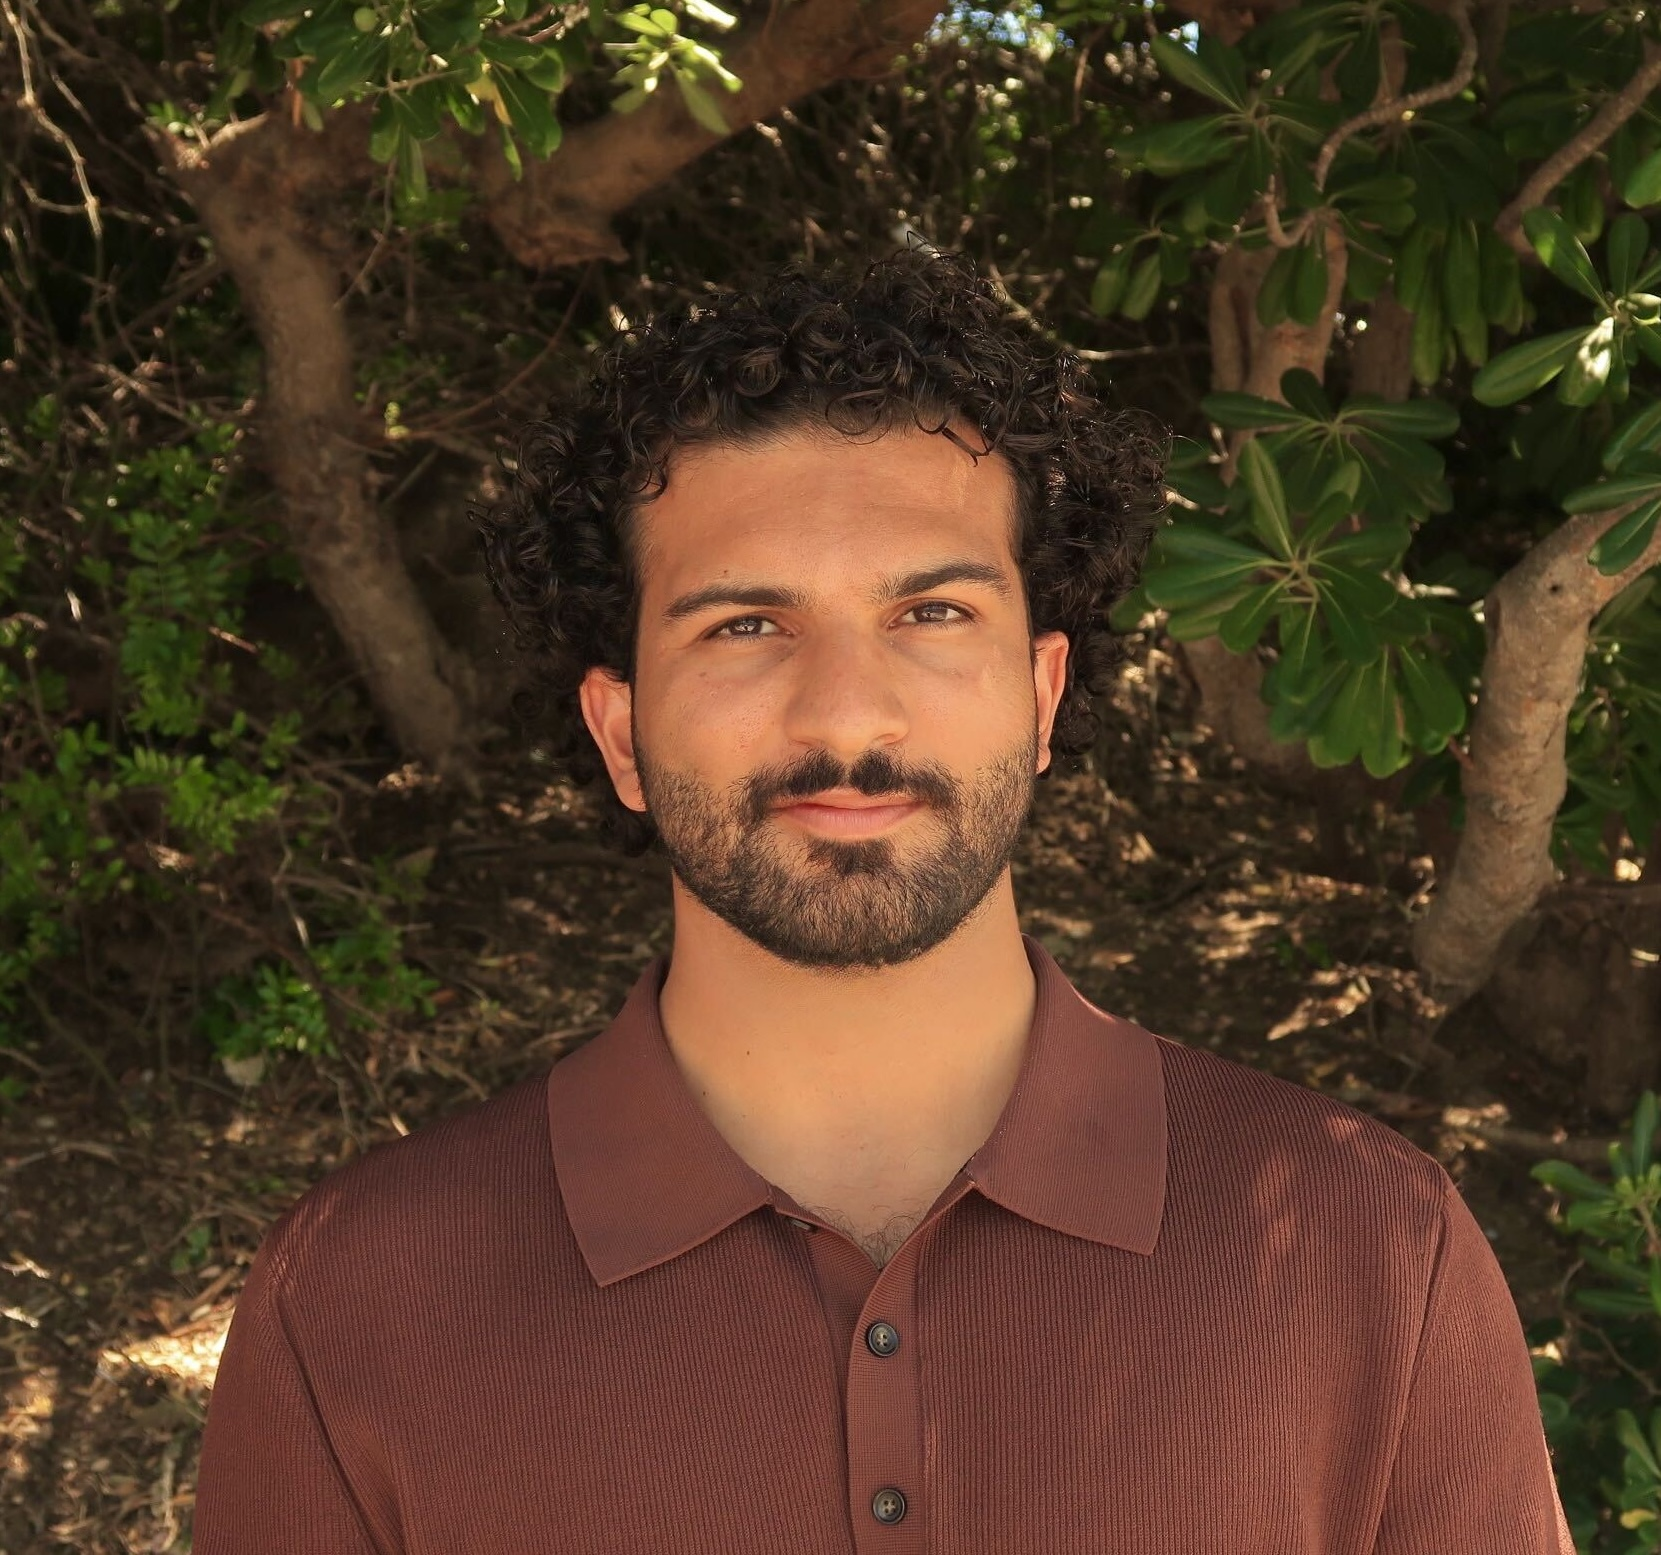
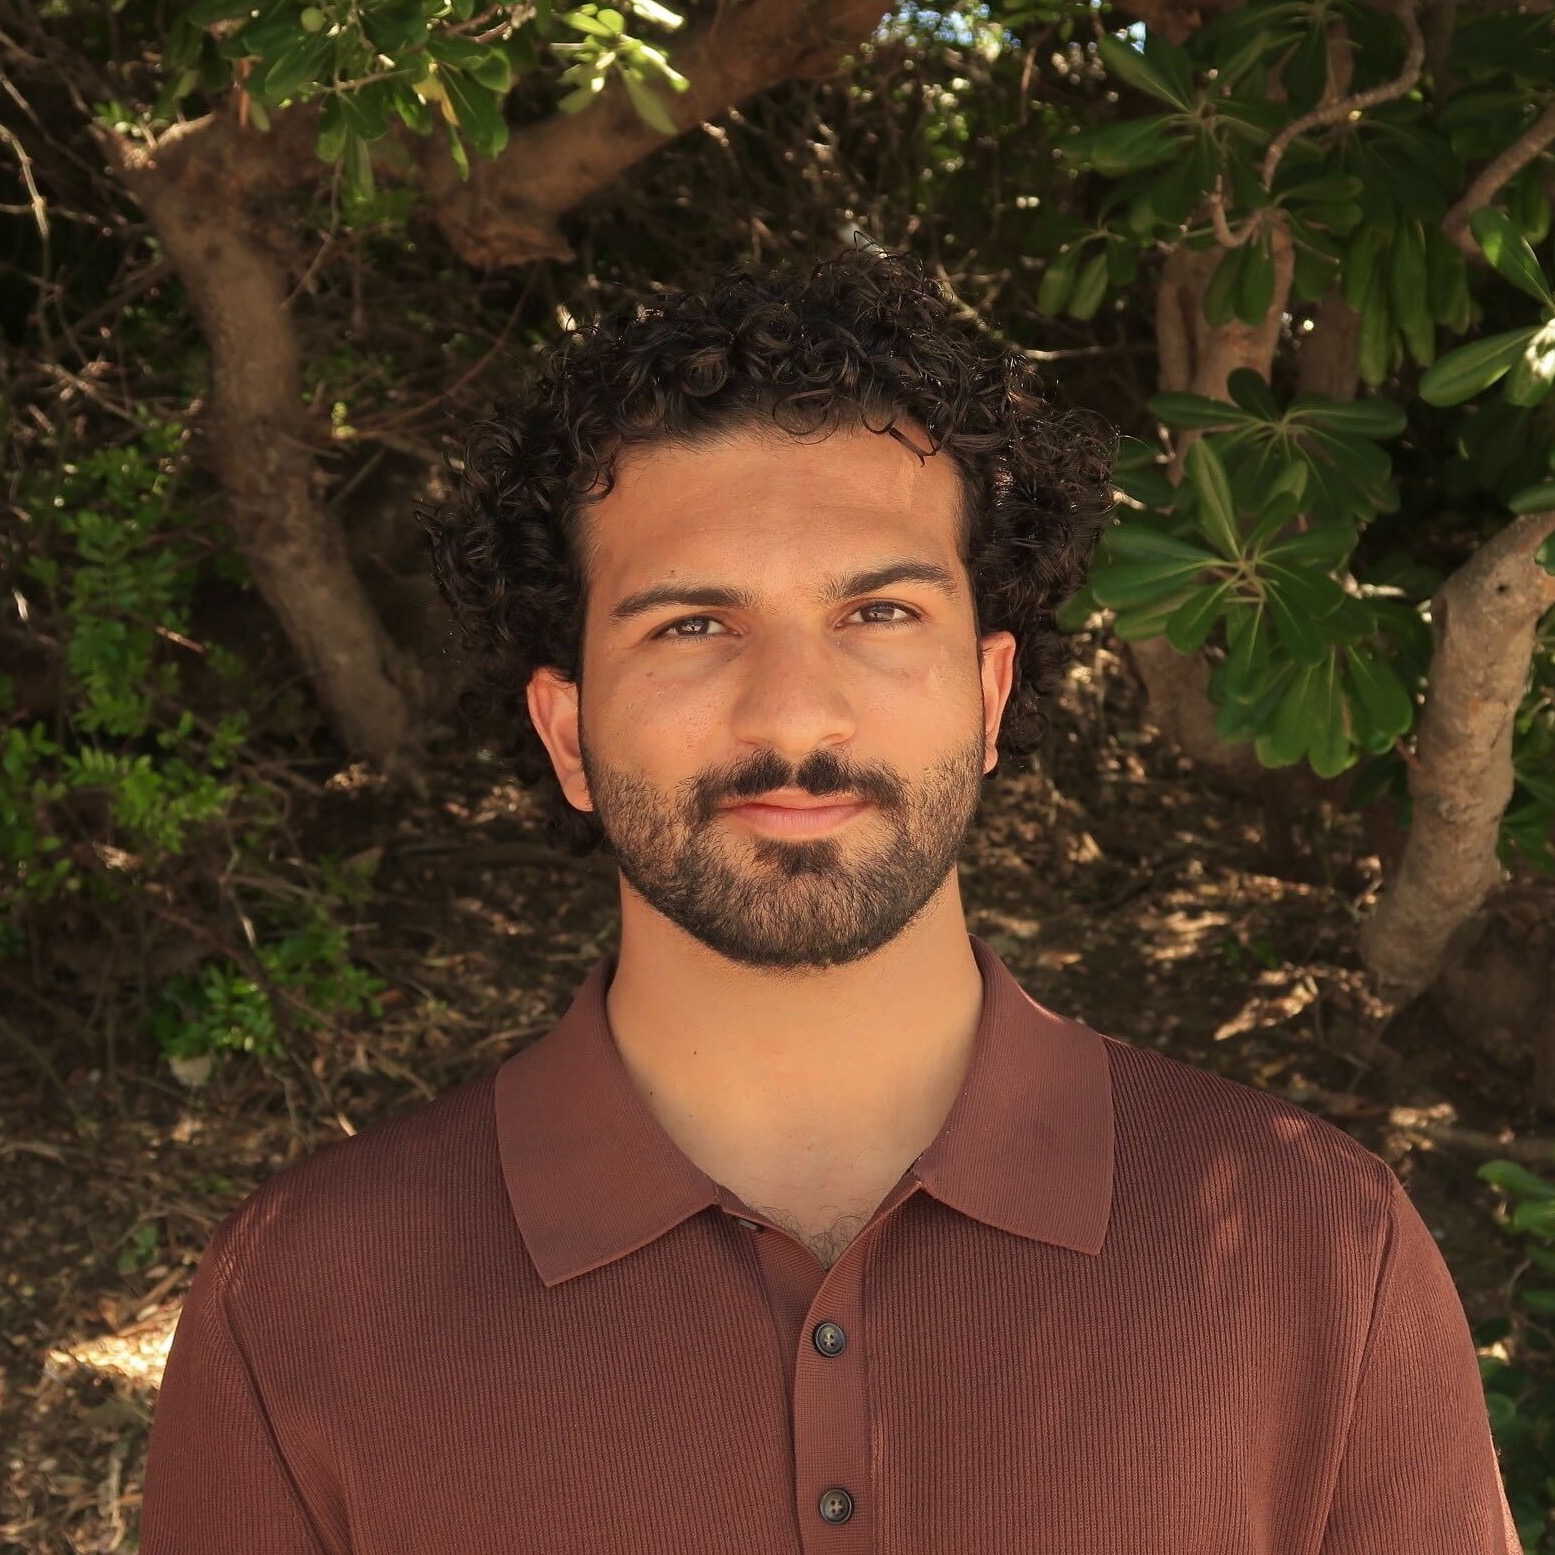
Make new profile photo circular (square crop + border-radius)

diff --git a/index.html b/index.html
@@ -50,7 +50,7 @@
                 </p>
               </td>
               <td style="padding:2.5%;width:40%;max-width:40%">
-                <img style="width:100%;max-width:100%" alt="profile photo" src="images/hr.jpg" class="hoverZoomLink">
+                <img style="width:100%;max-width:100%;border-radius:50%;aspect-ratio:1/1;object-fit:cover" alt="profile photo" src="images/hr.jpg" class="hoverZoomLink">
               </td>
             </tr>
           </tbody></table>
